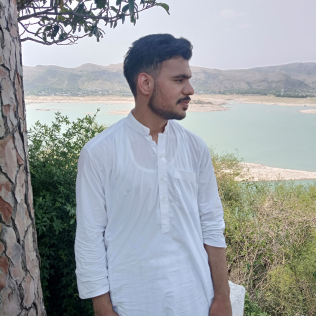
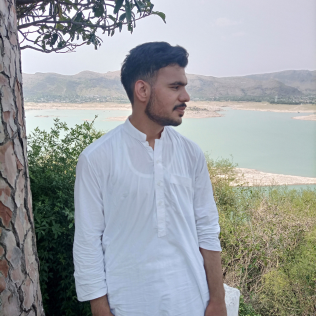
changes

diff --git a/Components/Work.jsx b/Components/Work.jsx
@@ -1,0 +1,52 @@
+import { assets, workData } from '@/assets/assets'
+import Image from 'next/image'
+import React from 'react'
+
+const Work = () => {
+    return (
+        <div id='work' className='w-full px-[12%] py-10 scroll-mt-5 mb-18 '>
+            <h4 className='text-center  text-lg font-Ovo mt-48  ml-20' >
+                My portfolio
+            </h4>
+            <h2 className='text-center text-5xl font-Ovo mt-3 ml-15'>
+                My latest work
+            </h2>
+            <p className='text-center max-w-2xl mx-auto mt-5 mb-12 font-Ovo'>
+
+                Welcome to my web development portfolio! Explore a collection of projects showcasing my expertise
+                in front end development.
+            </p>
+
+
+            <div className='grid grid-cols-auto my-10 gap-5 '>
+                {workData.map((project, index) => (
+                    <div key={index}
+                        className='aspect-square bg-no-repeat bg-cover bg-center rounded-lg relative
+                    cursor-pointer  group'
+                        style={{backgroundImage: `url(${project.bgImage})` }}>
+                        <div className='bg-white w-10/12 rounded-md absolute bottom-5
+                        left-1/2 -translate-x-1/2 py-3 px-5 flex items-center justify-between 
+                        duration-500  group-hover:bottom-7'>
+                            <div >
+                                <h2 className='font-semibold'>{project.title}</h2>
+                                <p className='text-sm text-gray-700'>{project.description}</p>
+                            </div>
+                            <div className='border rounded-full border-black w-9 aspect-square flex items-center
+                            justify-center shadow-[2px_2px_0_#000] group-hover:bg-lime-300 transition  '>
+                                <Image src={assets.send_icon} alt='send-icon' className='w-5' />
+                            </div>
+                        </div>
+
+                    </div>
+                ))}
+            </div>
+            <a href="" className='w-max flex items-center justify-center gap-2 text-gray-700 
+            border-[0.5px] border-gray-700 rounded-full y-3 px-10 mx-auto my-20 hover:bg-lightHover 
+            duration-500 '>
+                Show more <Image src={assets.right_arrow_bold} alt='Right arrow' className='w-4'/>
+            </a>
+        </div>
+    )
+}
+
+export default Work

diff --git a/assets/assets.js b/assets/assets.js
@@ -108,8 +108,8 @@ export const serviceData = [
 
 export const infoList = [
     { icon: assets.code_icon, iconDark: assets.code_icon_dark, title: 'Languages', description: 'HTML, CSS, JavaScript React Js, Next Js' },
-    { icon: assets.edu_icon, iconDark: assets.edu_icon_dark, title: 'Education', description: 'BS in Computer Science' },
-    { icon: assets.project_icon, iconDark: assets.project_icon_dark, title: 'Projects', description: 'Built more than 3 projects' }
+    { icon: assets.edu_icon, iconDark: assets.edu_icon_dark, title: 'Education', description: 'B.Tech in Computer Science' },
+    { icon: assets.project_icon, iconDark: assets.project_icon_dark, title: 'Projects', description: 'Built more than 5 projects' }
 ];
 
 export const toolsData = [

diff --git a/Components/Header.jsx b/Components/Header.jsx
@@ -8,9 +8,9 @@ const Header = () => {
         gap-4
         '>
             <div>
-                <Image src={assets.profile_img} alt=''  className='rounded-full w-40 mt-38 mr-20' />
+                <Image src={assets.profile_img} alt=''  className='rounded-full w-40  mt-40  mr-20' />
             </div>
-            <h3 className='flex items-end gap-5 text-xl md:text-3xl  mb-5  font-Ovo' >
+            <h3 className='flex items-end gap-5 text-xl md:text-3xl  mb-3  font-Ovo' >
                 Hi! I'm Hamid Khan   <Image src={assets.hand_icon} alt='' className=' w-10' /></h3>
 
             <h1 className='text-3x1 sm:text-6xl lg:text-[68px] mb-2 font-ovo'>

diff --git a/Components/Services.jsx b/Components/Services.jsx
@@ -15,7 +15,7 @@ const Services = () => {
             <p className='text-center max-w-2xl mx-auto mt-5 mb-12 font-Ovo'>
 
                 I am a frontend developer from Abbottabad, Pakistan with 2 month experence in company DevDiligent.
-
+               </p>
                 <div className='grid grid-cols-4 gap-6 my-10'>
 
                     {serviceData.map(({icon, title, description, link}, index) => (
@@ -36,7 +36,7 @@ const Services = () => {
 
                 </div>
 
-            </p>
+         
         </div>
     )
 }

diff --git a/app/page.js b/app/page.js
@@ -4,6 +4,7 @@ import About from "@/Components/About";
 import Header from "@/Components/Header";
 import Navbar from "@/Components/Navbar";
 import Services from "@/Components/Services";
+import Work from "@/Components/Work";
 
 
 export default function Home() {
@@ -13,6 +14,7 @@ export default function Home() {
     <Header/>
     <About/>
     <Services/>
+    <Work/>
     </>
   );
 }
